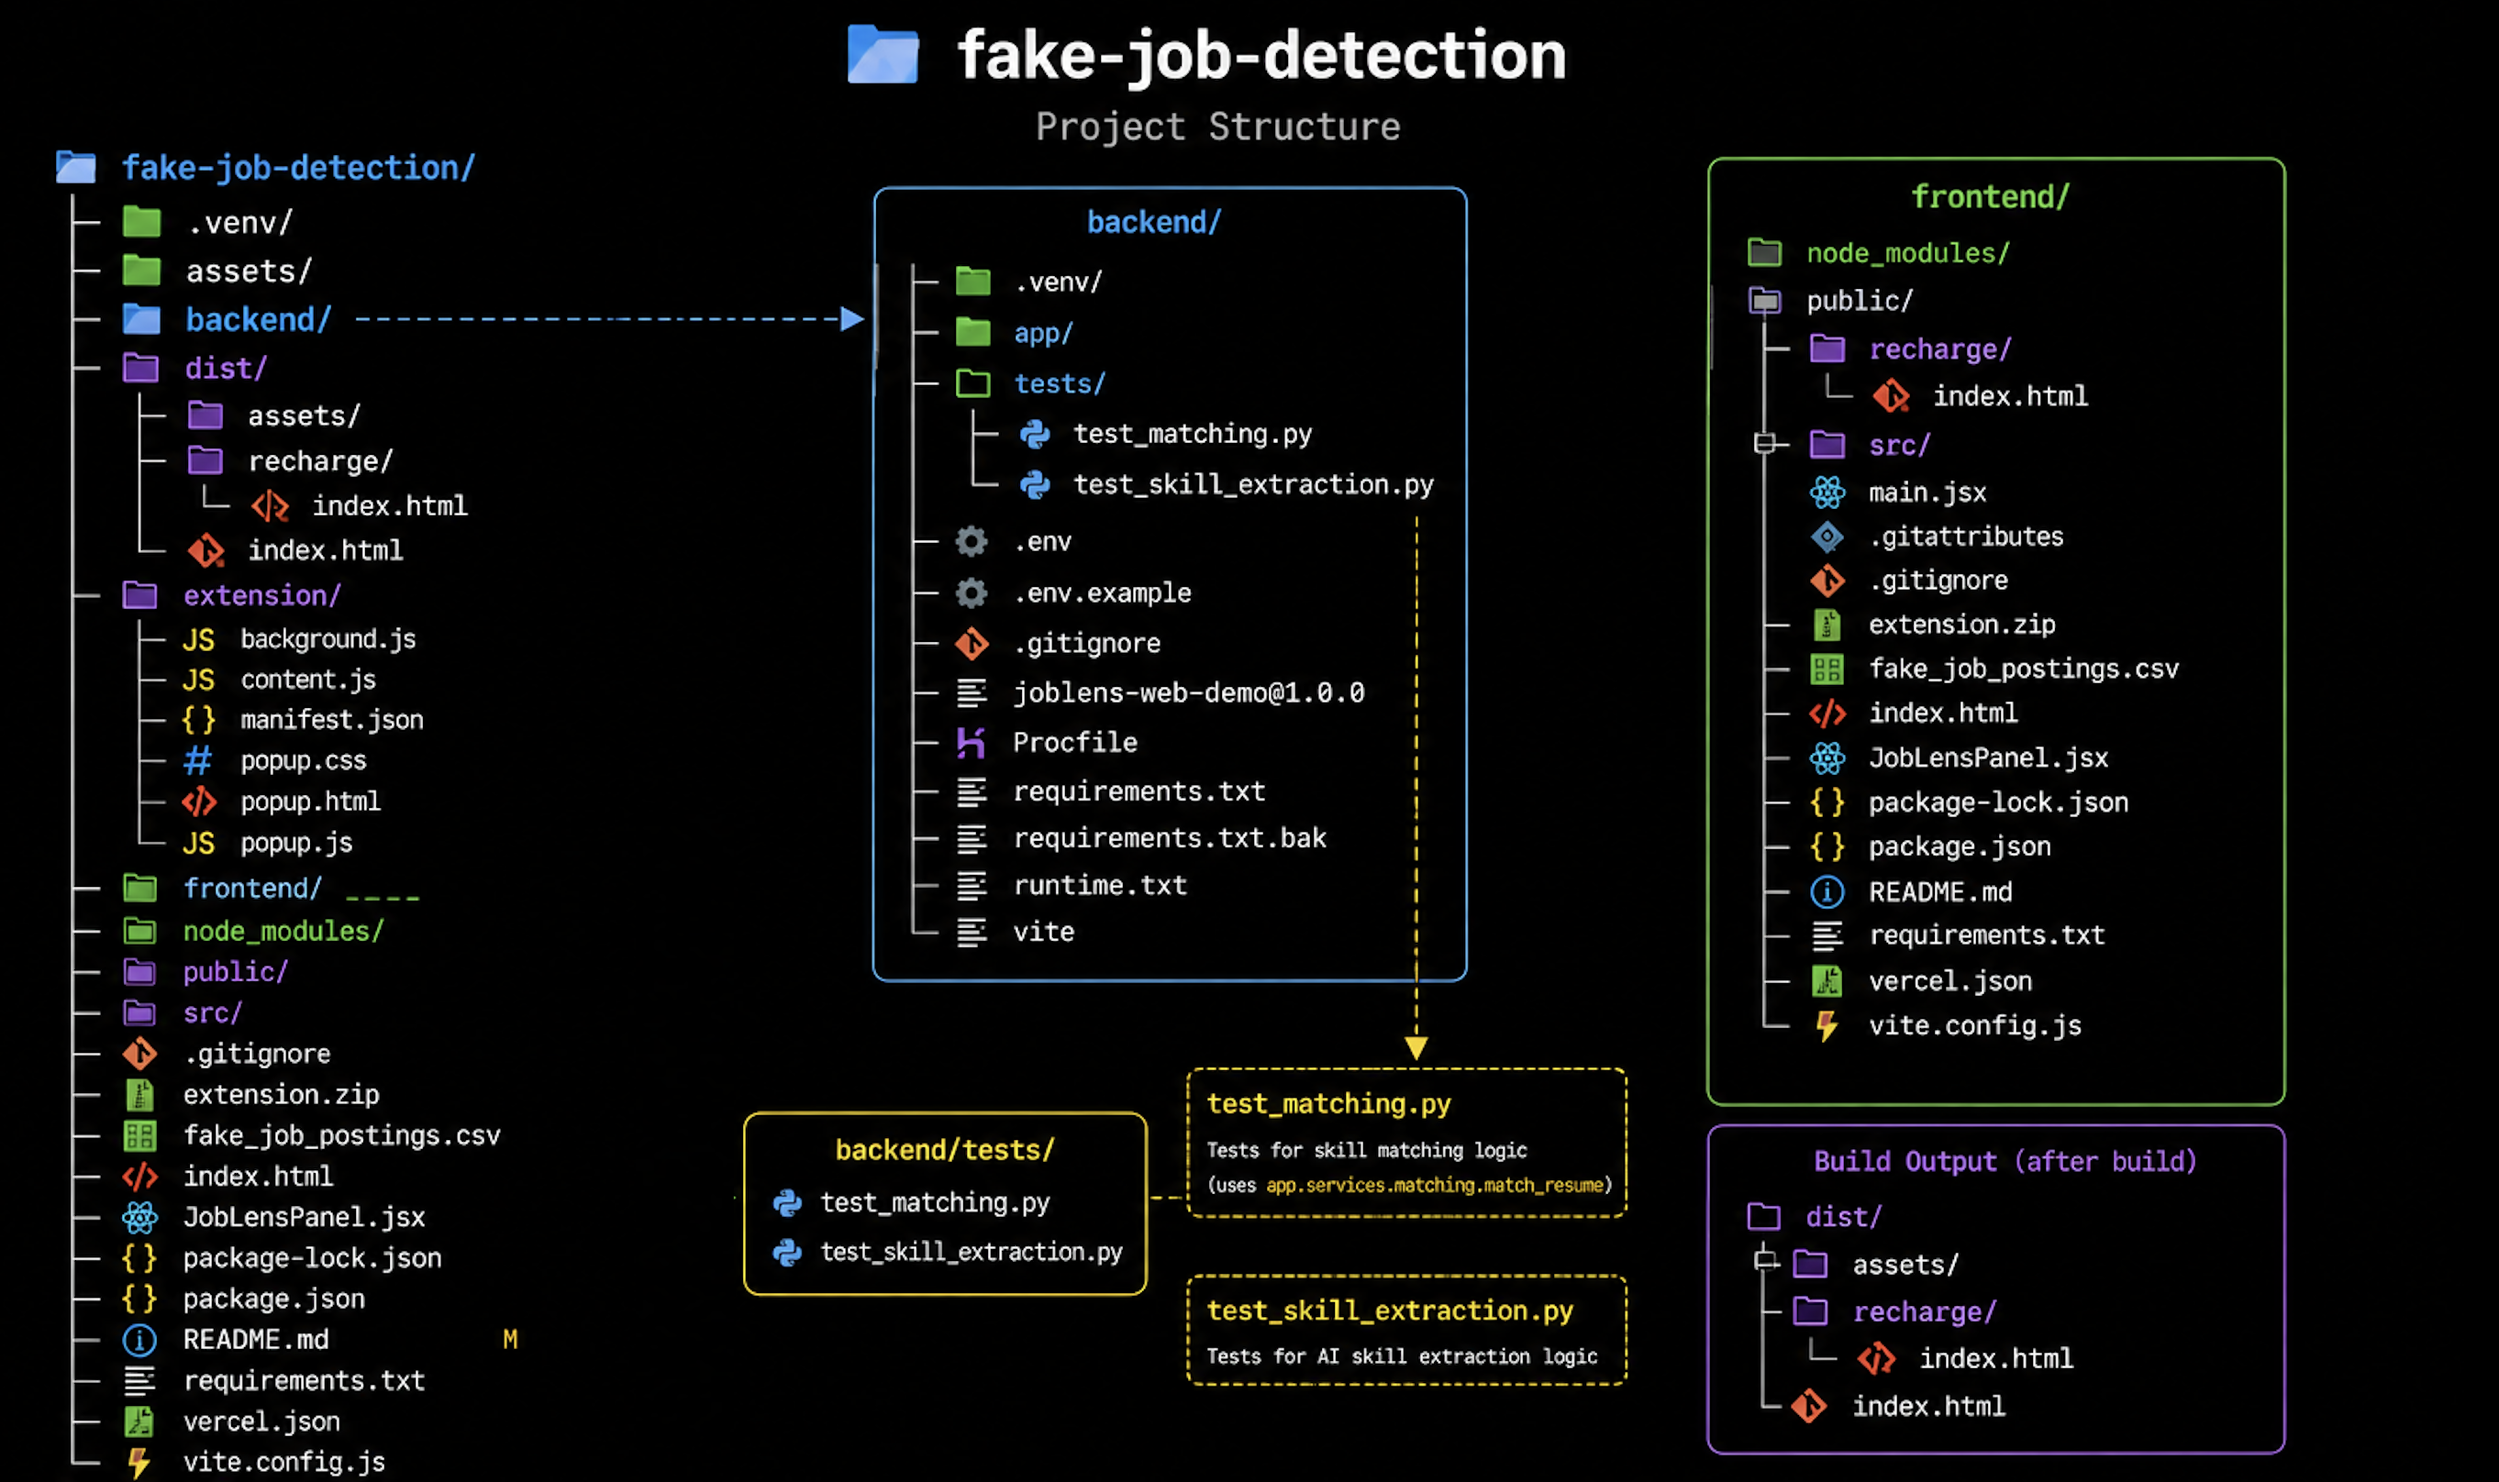
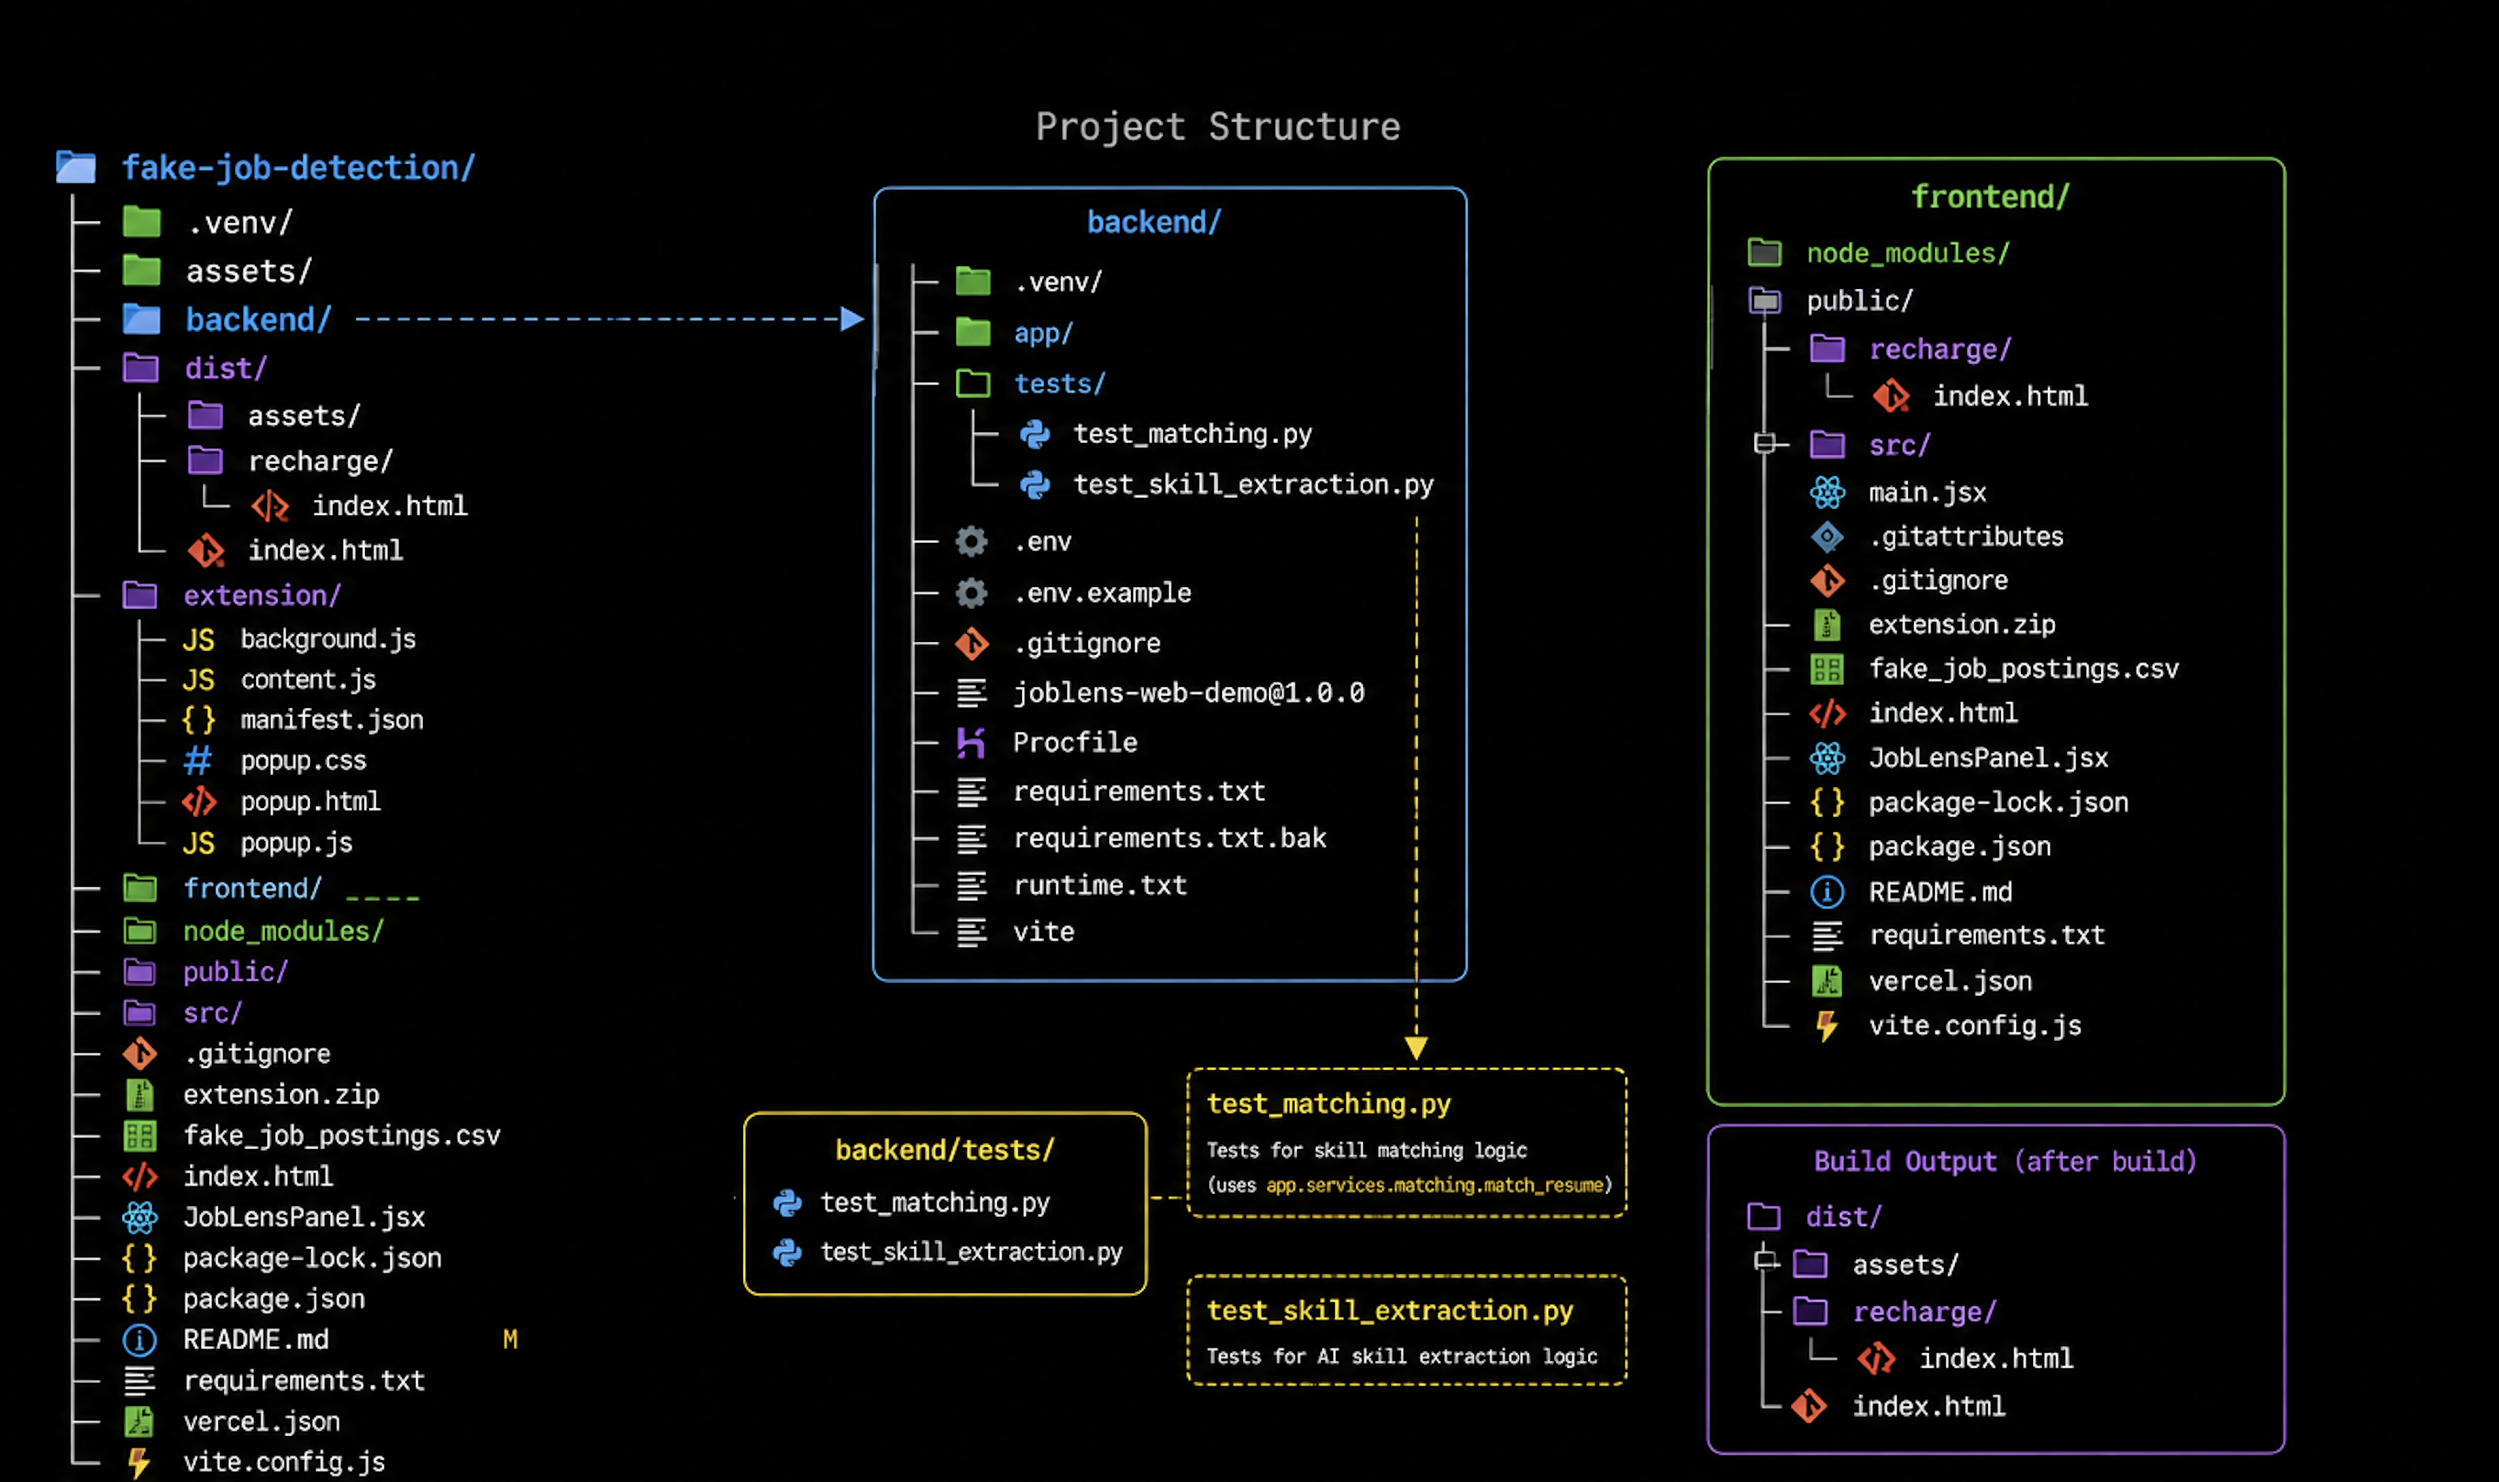
updated readme

Changed region(s): [[0.312, 0.0, 0.6241, 0.0619]]

diff --git a/readme.md b/readme.md
@@ -2,15 +2,14 @@
 <h3 align="center">
 JobLens is an AI-powered job posting scam-detection and resume-matching platform. It combines a large language model, resume parsing, and location-agnostic browser tooling to help job seekers instantly verify a posting's legitimacy, understand what a role actually requires, and see how well their own resume matches it — before they ever apply.
 </h3>
-
 <h2>Live Demo</h2>
+
 ```bash
 https://job-lensai.vercel.app
 ```
-
 <p>The backend is deployed on Render, which automatically goes to sleep after a period of inactivity. On the first visit, it may take <b>1-2 minutes</b> for the backend to wake up. Please wait briefly before using the application.</p>
 
-![System Architecture](assets/1.png)
+![System Architecture](assets/4.png)
 <h2>Features</h2>
 <h3>Job Seeker Features</h3>
 
@@ -73,7 +72,7 @@ https://job-lensai.vercel.app
 - Render (Backend)
 - Vercel (Frontend)
 
-![Project Structure](assets/2.png)
+![Project Structure](assets/3.png)
 <h2>Installation</h2>
 <h3>Clone Repository</h3>
 
@@ -155,7 +154,7 @@ http://127.0.0.1:5173
 http://127.0.0.1:8000
 ```
 <h2>Screenshots</h2>
-  <img src="assets/1.png">
+<img src="assets/1.png" style="width: 100%;">
   <img src="assets/2.png">
 
 <h2>Deployment</h2>
